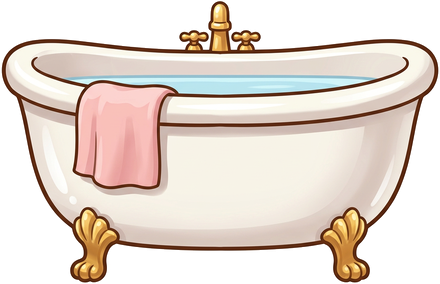
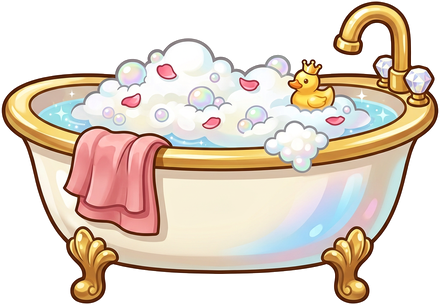
feat(banheiras): artes muito mais ricas — espuma, pato, toalha, torneira de cisne
Duas banheiras regeneradas com prompts de alta densidade de detalhe e
seleção entre candidatos por métricas numéricas (densidade de bordas e
variedade de cores), mantendo a geometria validada (aro na linha
1124, fatia frontal, corpo >=87% da largura, zero buracos):

- rustica (cap. 1): edge 0.264->0.420 (+59%), cores 99->128 (+29%)
  — faixas de madeira com grão/rebites, espuma com bolhas iridescentes,
    pato amarelo, toalha listrada, pés em garra, gotas na frente
- spa (cap. 2+): edge 0.206->0.312 (+51%), cores 76->127 (+67%)
  — porcelana com brilho/rosé, torneira de cisne dourada à direita
    (visível ao lado do pet), pétalas de rosa, coroa no pato, toalha rosa

QA do compositor re-verde (oclusão 1.0, aro contínuo, pranchas OK);
gdlint/validação/26 testes/500 animações OK.

diff --git a/tools/compose_scene_preview.py b/tools/compose_scene_preview.py
@@ -40,14 +40,14 @@ PLANK_DROP = 34.0
 SHELF_Y = [679, 801, 923, 1045, 1167]
 
 STATION_BOXES = {
-    "bathtub_rustic": (320.0, SURFACE - 55.0, 440.0, 324.0),
-    "bathtub_spa": (320.0, SURFACE - 84.0, 440.0, 284.0),
+    "bathtub_rustic": (320.0, SURFACE - 87.0, 440.0, 314.0),
+    "bathtub_spa": (320.0, SURFACE - 109.0, 440.0, 305.0),
     "groom": (340.0, SURFACE, 400.0, 121.0),
     "dry": (330.0, SURFACE, 420.0, 169.0),
     "perfume": (390.0, SURFACE, 300.0, 179.0),
     "style": (370.0, SURFACE, 340.0, 110.0),
 }
-BATHTUB_RIM_FRACS = {"bathtub_rustic": 0.0586, "bathtub_spa": 0.169}
+BATHTUB_RIM_FRACS = {"bathtub_rustic": 0.1624, "bathtub_spa": 0.2393}
 
 SERVICE_BG = {
     "bath": "petshop_quintal.png",

diff --git a/art/ASSET_MANIFEST.md b/art/ASSET_MANIFEST.md
@@ -8,8 +8,8 @@
 | `backgrounds/petshop_perfume.png` | spa, pedestal acolchoado + 5 prateleiras | ilustração original gerada e curada | 768×1376 | suporte calibrado (540,1060); fundo também usado em menus |
 | `backgrounds/petshop_estilo.png` | estilo, pufe elevado + 5 prateleiras | ilustração original gerada e curada | 768×1376 | suporte calibrado (540,1065); sem pet/texto embutido |
 | `props/tool_*.png` (5) | sabonete, máquina, secador, perfume e laço | ilustrações originais geradas e recortadas/curadas para este projeto | 512×512 RGBA | transparência real, sombra, highlight, contorno; animação runtime |
-| `stations/station_bathtub_rustic.png` | banho, capítulo 1 (quintal): tina rústica de madeira e metal | ilustração original gerada e recortada/curada (tools/normalize_station_art.py) | 440×324 RGBA | aro frontal fatiado em runtime para ocluir as patas do pet; sem texto |
-| `stations/station_bathtub_spa.png` | banho, capítulo 2+: banheira de porcelana com pés dourados | ilustração original gerada e recortada/curada (tools/normalize_station_art.py) | 440×284 RGBA | torneira/tiqueta atrás do pet; fatia frontal idem rústica |
+| `stations/station_bathtub_rustic.png` | banho, capítulo 1 (quintal): tina rústica com faixas de madeira, espuma, pato de borracha e toalha | ilustração original gerada (2 candidatos, melhor por métricas) e recortada/curada (tools/normalize_station_art.py) | 440×314 RGBA | aro frontal fatiado em runtime para ocluir as patas do pet; sem texto |
+| `stations/station_bathtub_spa.png` | banho, capítulo 2+: banheira de porcelana com torneira de cisne dourada, pétalas, espuma e toalha | ilustração original gerada (2 candidatos, melhor por métricas) e recortada/curada (tools/normalize_station_art.py) | 440×305 RGBA | elementos laterais fora da zona do pet; fatia frontal idem rústica |
 | `stations/station_groom_table.png` | tosa, mesa de aço com tapete | ilustração original gerada e recortada/curada | 400×121 RGBA | topo ancorado na superfície do pet (pet_position.y) |
 | `stations/station_drying_table.png` | secagem, mesa acolchoada com bocal de ar | ilustração original gerada e recortada/curada | 420×169 RGBA | topo ancorado na superfície do pet |
 | `stations/station_spa_pedestal.png` | spa, pedestal com almofada | ilustração original gerada e recortada/curada | 300×179 RGBA | topo ancorado na superfície do pet |
